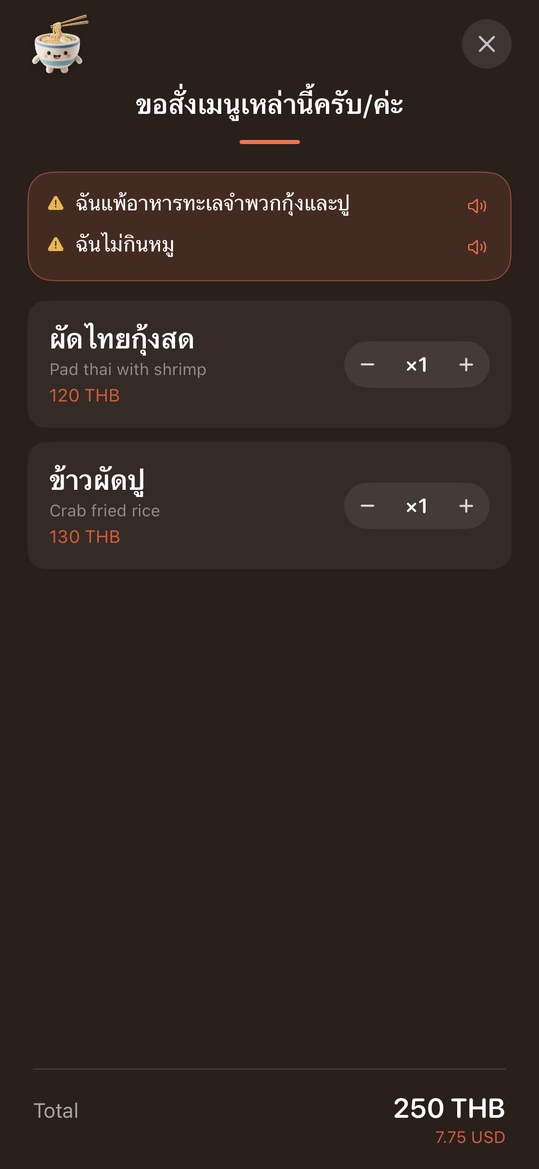
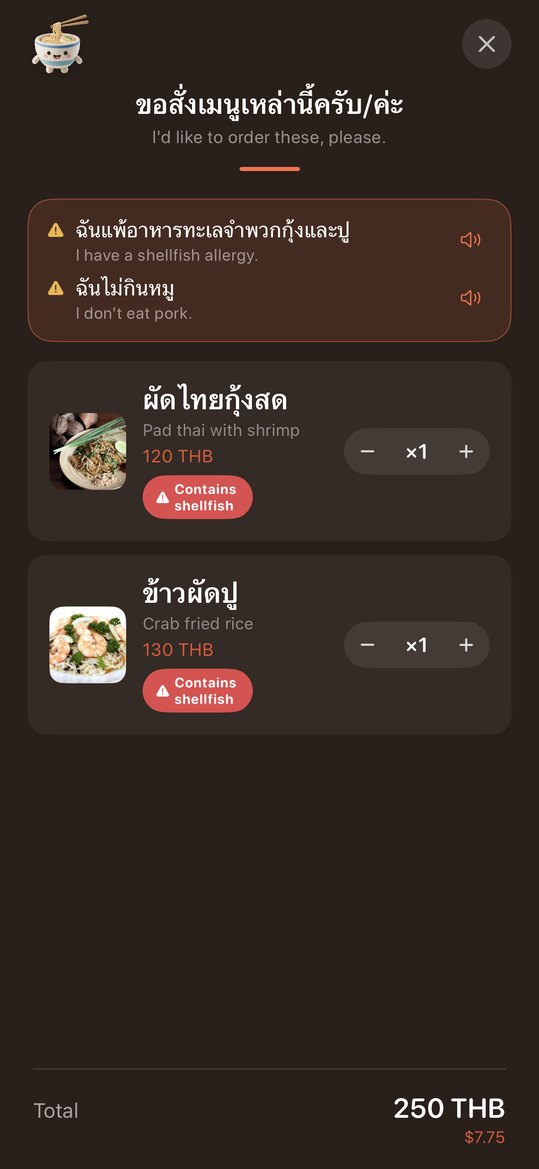
Menufy 2.5: dish photos section, refreshed app screens
Claude-Session: https://claude.ai/code/session_01V3SuSH6i4E2paDtxHYziYK

diff --git a/index.html b/index.html
@@ -181,6 +181,17 @@ body.mmenu-open{overflow:hidden}
 .why-d{font-size:14px;line-height:1.8;color:var(--muted);font-weight:700}
 .why-d strong{color:var(--ink);font-weight:900}
 
+/* DISH PHOTOS (2.5) */
+.ph-wrap{display:grid;grid-template-columns:minmax(0,1fr) minmax(0,1.05fr);gap:56px;align-items:center}
+.ph-pair{display:flex;align-items:center;justify-content:center;gap:18px}
+.ph-pair figure{margin:0;flex:0 1 230px;display:flex;flex-direction:column;gap:10px}
+.ph-pair figcaption{font-size:13px;line-height:1.5;color:var(--muted);font-weight:800;text-align:center}
+.ph-arrow{flex:none;width:40px;height:40px;border-radius:50%;background:var(--coral);color:#fff;display:flex;align-items:center;justify-content:center;box-shadow:var(--sh)}
+.ph-points{list-style:none;display:flex;flex-direction:column;gap:14px;margin:0;padding:0}
+.ph-points li{background:var(--card);border-radius:20px;padding:18px 20px;box-shadow:var(--sh);font-size:15px;line-height:1.7;color:var(--ink);font-weight:700}
+.ph-points li strong{display:block;font-weight:900;margin-bottom:2px}
+.ph-points li span{color:var(--muted)}
+@media(max-width:900px){.ph-wrap{grid-template-columns:1fr;gap:32px}.ph-pair{gap:10px}.ph-pair figure{flex-basis:44%}.ph-arrow{width:32px;height:32px}}
 /* NEW FEATURES (order) */
 .nf-grid{display:grid;grid-template-columns:repeat(2,1fr);gap:20px}
 .nf-card{background:var(--card);border-radius:26px;padding:28px;box-shadow:var(--sh);display:flex;flex-direction:column;gap:14px}
@@ -544,9 +555,9 @@ footer{padding:40px 80px 60px;display:flex;align-items:center;justify-content:sp
 <section class="hero">
   <div class="blob blob-1"></div><div class="blob blob-2"></div><div class="blob blob-3"></div>
   <div class="hleft">
-    <a href="#order" class="hannounce"><span style="display:inline-flex;width:14px;height:14px"><svg viewBox="0 0 24 24" fill="none" stroke="currentColor" stroke-width="2" stroke-linejoin="round"><path d="M12 3l2.2 5.8L20 11l-5.8 2.2L12 19l-2.2-5.8L4 11l5.8-2.2z"/></svg></span>会計チェックと、店員に見せる注文票が登場</a>
+    <a href="#photos" class="hannounce"><span style="display:inline-flex;width:14px;height:14px"><svg viewBox="0 0 24 24" fill="none" stroke="currentColor" stroke-width="2" stroke-linejoin="round"><path d="M12 3l2.2 5.8L20 11l-5.8 2.2L12 19l-2.2-5.8L4 11l5.8-2.2z"/></svg></span>メニューの料理写真が、訳した料理に付くように</a>
     <h1 class="htitle">読めないメニューも、<br>もう怖くない。</h1>
-    <p class="hdesc">撮るだけで、料理の名前・説明・値段があなたの言葉に。アレルギーの警告、店員に見せる注文票、会計のチェックまで。旅先の食事の不安を、ぜんぶ引き受けます。</p>
+    <p class="hdesc">撮るだけで、料理の名前・説明・値段があなたの言葉に。メニューに写真があれば、その料理の写真も一緒に。アレルギーの警告、店員に見せる注文票、会計のチェックまで。旅先の食事の不安を、ぜんぶ引き受けます。</p>
     <div class="hactions">
       <a href="#cta" class="btn-primary"><span style="display:inline-flex;width:20px;height:20px"><svg viewBox="0 0 24 24" fill="none" stroke="currentColor" stroke-width="2" stroke-linecap="round" stroke-linejoin="round"><path d="M4 8h3l2-3h6l2 3h3v11H4z"/><circle cx="12" cy="13" r="3.5"/></svg></span>無料でダウンロード</a>
       <a href="https://apps.apple.com/app/id6760161339" class="btn-store" target="_blank" onclick="fbq('track','InitiateCheckout',{content_name:'hero',content_category:'AppStore'})"><svg width="22" height="22" viewBox="0 0 24 24" fill="#3B2C26"><path d="M18.71 19.5c-.83 1.24-1.71 2.45-3.05 2.47-1.34.03-1.77-.79-3.29-.79-1.53 0-2 .77-3.27.82-1.31.05-2.3-1.32-3.14-2.53C4.25 17 2.94 12.45 4.7 9.39c.87-1.52 2.43-2.48 4.12-2.51 1.28-.02 2.5.87 3.29.87.78 0 2.26-1.07 3.8-.91.65.03 2.47.26 3.64 1.98-.09.06-2.17 1.28-2.15 3.81.03 3.02 2.65 4.03 2.68 4.04-.03.07-.42 1.44-1.38 2.83M13 3.5c.73-.83 1.94-1.46 2.94-1.5.13 1.17-.34 2.35-1.04 3.19-.69.85-1.83 1.51-2.95 1.42-.15-1.15.41-2.35 1.05-3.11z"/></svg><div><span class="sub">Download on the</span><span class="main">App Store</span></div></a>
@@ -555,8 +566,26 @@ footer{padding:40px 80px 60px;display:flex;align-items:center;justify-content:sp
     <div class="hmeta"><span>14言語</span><span>·</span><span>買い切り・サブスクなし</span><span>·</span><span>まず5回無料</span></div>
   </div>
   <div class="hright">
-    <div class="phone"><img src="screens-v2/03-result.jpg" alt="Menufyの翻訳結果画面" fetchpriority="high"></div>
+    <div class="phone"><img src="screens-v2/13-dishes.jpg" alt="写真つきで並ぶMenufyの翻訳結果" fetchpriority="high"></div>
     <img src="assets/mascot-sushi.png" alt="" class="mascot m1" loading="lazy"><img src="assets/mascot-ramen.png" alt="" class="mascot m2" loading="lazy"><img src="assets/mascot-gyoza.png" alt="" class="mascot m3" loading="lazy"><img src="assets/mascot-omurice.png" alt="" class="mascot m4" loading="lazy"><img src="assets/mascot-pudding.png" alt="" class="mascot m5" loading="lazy">
+  </div>
+</section>
+
+<section class="section" id="photos">
+  <div class="ph-wrap">
+    <div>
+      <div class="slbl">NEW 2.5 · 料理の写真</div>
+      <h2 class="stitle">メニューの写真が、<br><em>訳した料理に。</em></h2>
+      <p class="sdesc" style="margin-bottom:28px">写真つきのメニューなら、どの写真がどの料理かをAIが見分けて、訳した料理に添えます。名前を読んでもピンとこない料理も、ひと目でわかります。</p>
+      <ul class="ph-points">
+        <li><strong>写真を押すと大きく</strong><span>撮ったメニューから切り抜くので、細部までくっきり。</span></li><li><strong>迷ったら付けない</strong><span>どの料理の写真か確かでないときは付けません。写真のない料理は今までどおり。</span></li><li><strong>おすすめ・注文票・履歴にも</strong><span>店員に見せる注文票や、あとで見返す履歴にも写真が残ります。</span></li>
+      </ul>
+    </div>
+    <div class="ph-pair">
+      <figure><div class="screen-phone"><img src="screens-v2/02-camera.jpg" alt="写真つきのメニューを撮った画面" loading="lazy"></div><figcaption>写真つきのメニューを撮ると</figcaption></figure>
+      <div class="ph-arrow" aria-hidden="true"><svg viewBox="0 0 24 24" width="20" height="20" fill="none" stroke="currentColor" stroke-width="2.6" stroke-linecap="round" stroke-linejoin="round"><path d="M5 12h14M13 6l6 6-6 6"/></svg></div>
+      <figure><div class="screen-phone"><img src="screens-v2/13-dishes.jpg" alt="写真つきで並ぶMenufyの翻訳結果" loading="lazy"></div><figcaption>訳した料理に、その料理の写真</figcaption></figure>
+    </div>
   </div>
 </section>
 
@@ -601,20 +630,24 @@ footer{padding:40px 80px 60px;display:flex;align-items:center;justify-content:sp
         <div class="screen-cap"><strong>02. 翻訳結果が順に届く</strong>おすすめ・警告・食べ方つき</div>
       </div>
       <div class="screen-item">
+        <div class="screen-phone"><img src="screens-v2/12-viewer.jpg" alt="料理の写真を全画面で表示" loading="lazy"></div>
+        <div class="screen-cap"><strong>03. 料理の写真を大きく</strong>メニューの写真から切り抜き</div>
+      </div>
+      <div class="screen-item">
         <div class="screen-phone"><img src="screens-v2/04-order.jpg" alt="Menufyの注文票画面" loading="lazy"></div>
-        <div class="screen-cap"><strong>03. 注文票を店員に見せる</strong>アレルギーの申告文も現地語で</div>
+        <div class="screen-cap"><strong>04. 注文票を店員に見せる</strong>アレルギーの申告文も現地語で</div>
       </div>
       <div class="screen-item">
         <div class="screen-phone"><img src="screens-v2/05-ask.jpg" alt="店員に聞くカード" loading="lazy"></div>
-        <div class="screen-cap"><strong>04. 気になる料理は聞く</strong>「これは入っていますか？」を原語で</div>
+        <div class="screen-cap"><strong>05. 気になる料理は聞く</strong>「これは入っていますか？」を原語で</div>
       </div>
       <div class="screen-item">
         <div class="screen-phone"><img src="screens-v2/08-bill.jpg" alt="Menufyの会計チェック画面" loading="lazy"></div>
-        <div class="screen-cap"><strong>05. 会計をチェック</strong>過剰請求や未注文の品を指摘</div>
+        <div class="screen-cap"><strong>06. 会計をチェック</strong>過剰請求や未注文の品を指摘</div>
       </div>
       <div class="screen-item">
         <div class="screen-phone"><img src="screens-v2/06-paywall.jpg" alt="Menufyの回数券画面" loading="lazy"></div>
-        <div class="screen-cap"><strong>06. 買い切りの回数券</strong>サブスクなし。5回は無料</div>
+        <div class="screen-cap"><strong>07. 買い切りの回数券</strong>サブスクなし。5回は無料</div>
       </div>
     </div>
     <div class="screens-nav"><button class="snav" type="button" data-dir="-1" aria-label="prev">‹</button><span class="screens-hint" style="margin:0"><span>横にスクロール</span></span><button class="snav" type="button" data-dir="1" aria-label="next">›</button></div>
@@ -626,6 +659,11 @@ footer{padding:40px 80px 60px;display:flex;align-items:center;justify-content:sp
   <h2 class="stitle">読むだけで<em>終わらせない。</em></h2>
   <p class="sdesc">翻訳のあとに来る「選ぶ・頼む・払う・覚える」まで、ぜんぶ一つのアプリで。</p>
   <div class="fgrid">
+    <div class="feat">
+      <div class="icon"><svg viewBox="0 0 24 24" fill="none" stroke="currentColor" stroke-width="2" stroke-linecap="round" stroke-linejoin="round"><rect x="3" y="5" width="18" height="14" rx="3"/><circle cx="9" cy="10" r="1.8"/><path d="M21 16l-5-5-8 8"/></svg></div>
+      <h3 class="ft">料理の写真つき</h3>
+      <p class="fd">メニューの写真を、訳した料理に添えて表示。どんな一皿か、ひと目でわかります。</p>
+    </div>
     <div class="feat">
       <div class="icon "><svg viewBox="0 0 24 24" fill="none" stroke="currentColor" stroke-width="2" stroke-linecap="round"><circle cx="12" cy="12" r="9"/><path d="M3 12h18M12 3c3 3 3 15 0 18M12 3c-3 3-3 15 0 18"/></svg></div>
       <h3 class="ft">14言語・自動判定</h3>
@@ -660,11 +698,6 @@ footer{padding:40px 80px 60px;display:flex;align-items:center;justify-content:sp
       <div class="icon mint"><svg viewBox="0 0 24 24" fill="none" stroke="currentColor" stroke-width="2" stroke-linecap="round"><path d="M8 3v7a2 2 0 0 0 2 2v9M8 3v5M10 3v5"/><path d="M17 3c-2 1-3 4-3 7h3v11"/></svg></div>
       <h3 class="ft">食べた記録と旅カード</h3>
       <p class="fd">星と写真で記録。国ごとに1枚のカードにして共有できます。</p>
-    </div>
-    <div class="feat">
-      <div class="icon "><svg viewBox="0 0 24 24" fill="none" stroke="currentColor" stroke-width="2" stroke-linecap="round" stroke-linejoin="round"><path d="M12 3v12M7 8l5-5 5 5"/><path d="M5 14v6h14v-6"/></svg></div>
-      <h3 class="ft">保存・共有・履歴</h3>
-      <p class="fd">翻訳結果は画像で保存。履歴は店名や国で検索できます。</p>
     </div>
   </div>
 </section>
@@ -797,6 +830,10 @@ footer{padding:40px 80px 60px;display:flex;align-items:center;justify-content:sp
   <div class="slbl">よくある質問</div>
   <h2 class="stitle">気になること、<em>ここで解決。</em></h2>
   <div class="faq-wrap">
+    <details class="faq-item">
+      <summary class="faq-q">メニューの写真は、どんなときに付きますか？</summary>
+      <div class="faq-a">メニューに料理の写真があり、どの料理の写真かをAIが見分けられたときに、訳した料理に添えて表示します。写真に料理名が書かれていればそれを手がかりにします。どの料理の写真か確かでないときや、写真のない料理には付けません。写真は撮影したメニューから端末内で切り抜きます。</div>
+    </details>
     <details class="faq-item">
       <summary class="faq-q">翻訳の精度はどのくらいですか？</summary>
       <div class="faq-a">最新のAIを使用しており、印刷メニュー・手書きメニュー・黒板メニュー・タブレット画面など、様々な形式を高精度で翻訳します。料理名だけでなく、原材料や調理法の説明も日本語で表示するので、どんな料理か一目でわかります。</div>

diff --git a/en/index.html b/en/index.html
@@ -181,6 +181,17 @@ body.mmenu-open{overflow:hidden}
 .why-d{font-size:14px;line-height:1.8;color:var(--muted);font-weight:700}
 .why-d strong{color:var(--ink);font-weight:900}
 
+/* DISH PHOTOS (2.5) */
+.ph-wrap{display:grid;grid-template-columns:minmax(0,1fr) minmax(0,1.05fr);gap:56px;align-items:center}
+.ph-pair{display:flex;align-items:center;justify-content:center;gap:18px}
+.ph-pair figure{margin:0;flex:0 1 230px;display:flex;flex-direction:column;gap:10px}
+.ph-pair figcaption{font-size:13px;line-height:1.5;color:var(--muted);font-weight:800;text-align:center}
+.ph-arrow{flex:none;width:40px;height:40px;border-radius:50%;background:var(--coral);color:#fff;display:flex;align-items:center;justify-content:center;box-shadow:var(--sh)}
+.ph-points{list-style:none;display:flex;flex-direction:column;gap:14px;margin:0;padding:0}
+.ph-points li{background:var(--card);border-radius:20px;padding:18px 20px;box-shadow:var(--sh);font-size:15px;line-height:1.7;color:var(--ink);font-weight:700}
+.ph-points li strong{display:block;font-weight:900;margin-bottom:2px}
+.ph-points li span{color:var(--muted)}
+@media(max-width:900px){.ph-wrap{grid-template-columns:1fr;gap:32px}.ph-pair{gap:10px}.ph-pair figure{flex-basis:44%}.ph-arrow{width:32px;height:32px}}
 /* NEW FEATURES (order) */
 .nf-grid{display:grid;grid-template-columns:repeat(2,1fr);gap:20px}
 .nf-card{background:var(--card);border-radius:26px;padding:28px;box-shadow:var(--sh);display:flex;flex-direction:column;gap:14px}
@@ -540,9 +551,9 @@ footer{padding:40px 80px 60px;display:flex;align-items:center;justify-content:sp
 <section class="hero">
   <div class="blob blob-1"></div><div class="blob blob-2"></div><div class="blob blob-3"></div>
   <div class="hleft">
-    <a href="#order" class="hannounce"><span style="display:inline-flex;width:14px;height:14px"><svg viewBox="0 0 24 24" fill="none" stroke="currentColor" stroke-width="2" stroke-linejoin="round"><path d="M12 3l2.2 5.8L20 11l-5.8 2.2L12 19l-2.2-5.8L4 11l5.8-2.2z"/></svg></span>New: bill check and an order card to show staff</a>
+    <a href="#photos" class="hannounce"><span style="display:inline-flex;width:14px;height:14px"><svg viewBox="0 0 24 24" fill="none" stroke="currentColor" stroke-width="2" stroke-linejoin="round"><path d="M12 3l2.2 5.8L20 11l-5.8 2.2L12 19l-2.2-5.8L4 11l5.8-2.2z"/></svg></span>Dish photos from the menu, now next to each translation</a>
     <h1 class="htitle">No menu is scary<br>anymore.</h1>
-    <p class="hdesc">Snap a menu and every dish name, description and price appears in your language. Allergy alerts, an order card to show staff, and a check of the bill — everything that makes eating abroad stressful, handled.</p>
+    <p class="hdesc">Snap a menu and every dish name, description and price appears in your language — with the dish’s photo when the menu has one. Allergy alerts, an order card to show staff, and a check of the bill — everything that makes eating abroad stressful, handled.</p>
     <div class="hactions">
       <a href="#cta" class="btn-primary"><span style="display:inline-flex;width:20px;height:20px"><svg viewBox="0 0 24 24" fill="none" stroke="currentColor" stroke-width="2" stroke-linecap="round" stroke-linejoin="round"><path d="M4 8h3l2-3h6l2 3h3v11H4z"/><circle cx="12" cy="13" r="3.5"/></svg></span>Download free</a>
       <a href="https://apps.apple.com/app/id6760161339" class="btn-store" target="_blank" onclick="fbq('track','InitiateCheckout',{content_name:'hero',content_category:'AppStore'})"><svg width="22" height="22" viewBox="0 0 24 24" fill="#3B2C26"><path d="M18.71 19.5c-.83 1.24-1.71 2.45-3.05 2.47-1.34.03-1.77-.79-3.29-.79-1.53 0-2 .77-3.27.82-1.31.05-2.3-1.32-3.14-2.53C4.25 17 2.94 12.45 4.7 9.39c.87-1.52 2.43-2.48 4.12-2.51 1.28-.02 2.5.87 3.29.87.78 0 2.26-1.07 3.8-.91.65.03 2.47.26 3.64 1.98-.09.06-2.17 1.28-2.15 3.81.03 3.02 2.65 4.03 2.68 4.04-.03.07-.42 1.44-1.38 2.83M13 3.5c.73-.83 1.94-1.46 2.94-1.5.13 1.17-.34 2.35-1.04 3.19-.69.85-1.83 1.51-2.95 1.42-.15-1.15.41-2.35 1.05-3.11z"/></svg><div><span class="sub">Download on the</span><span class="main">App Store</span></div></a>
@@ -551,8 +562,26 @@ footer{padding:40px 80px 60px;display:flex;align-items:center;justify-content:sp
     <div class="hmeta"><span>14 languages</span><span>·</span><span>One-time purchase, no subscription</span><span>·</span><span>First 5 scans free</span></div>
   </div>
   <div class="hright">
-    <div class="phone"><img src="../screens-v2/en/03-result.jpg" alt="Menufy translation result screen" fetchpriority="high"></div>
+    <div class="phone"><img src="../screens-v2/en/13-dishes.jpg" alt="Menufy results with dish photos" fetchpriority="high"></div>
     <img src="../assets/mascot-sushi.png" alt="" class="mascot m1" loading="lazy"><img src="../assets/mascot-ramen.png" alt="" class="mascot m2" loading="lazy"><img src="../assets/mascot-gyoza.png" alt="" class="mascot m3" loading="lazy"><img src="../assets/mascot-omurice.png" alt="" class="mascot m4" loading="lazy"><img src="../assets/mascot-pudding.png" alt="" class="mascot m5" loading="lazy">
+  </div>
+</section>
+
+<section class="section" id="photos">
+  <div class="ph-wrap">
+    <div>
+      <div class="slbl">NEW 2.5 · Dish photos</div>
+      <h2 class="stitle">Menu photos,<br><em>matched to each dish.</em></h2>
+      <p class="sdesc" style="margin-bottom:28px">When the menu has pictures, the AI works out which photo shows which dish and puts it next to the translation. Even a name that means nothing to you becomes clear at a glance.</p>
+      <ul class="ph-points">
+        <li><strong>Tap to see it big</strong><span>Cut from the menu you photographed, so it stays sharp.</span></li><li><strong>No guessing</strong><span>If it isn’t sure which dish a photo shows, it leaves it out. Dishes without a photo look as before.</span></li><li><strong>In picks, the order card and history</strong><span>Photos stay with the dish on the order card you show staff and in your history.</span></li>
+      </ul>
+    </div>
+    <div class="ph-pair">
+      <figure><div class="screen-phone"><img src="../screens-v2/en/02-camera.jpg" alt="A photographed menu with dish photos" loading="lazy"></div><figcaption>Snap a menu with photos</figcaption></figure>
+      <div class="ph-arrow" aria-hidden="true"><svg viewBox="0 0 24 24" width="20" height="20" fill="none" stroke="currentColor" stroke-width="2.6" stroke-linecap="round" stroke-linejoin="round"><path d="M5 12h14M13 6l6 6-6 6"/></svg></div>
+      <figure><div class="screen-phone"><img src="../screens-v2/en/13-dishes.jpg" alt="Menufy results with dish photos" loading="lazy"></div><figcaption>Each translated dish gets its photo</figcaption></figure>
+    </div>
   </div>
 </section>
 
@@ -597,20 +626,24 @@ footer{padding:40px 80px 60px;display:flex;align-items:center;justify-content:sp
         <div class="screen-cap"><strong>02. Dishes arrive one by one</strong>With picks, warnings and how to eat</div>
       </div>
       <div class="screen-item">
+        <div class="screen-phone"><img src="../screens-v2/en/12-viewer.jpg" alt="A dish photo shown full screen" loading="lazy"></div>
+        <div class="screen-cap"><strong>03. See the dish photo big</strong>Cut from the menu’s own photo</div>
+      </div>
+      <div class="screen-item">
         <div class="screen-phone"><img src="../screens-v2/en/04-order.jpg" alt="Menufy order card" loading="lazy"></div>
-        <div class="screen-cap"><strong>03. Show the order card</strong>Allergy statements in the local language</div>
+        <div class="screen-cap"><strong>04. Show the order card</strong>Allergy statements in the local language</div>
       </div>
       <div class="screen-item">
         <div class="screen-phone"><img src="../screens-v2/en/05-ask.jpg" alt="Ask-staff card" loading="lazy"></div>
-        <div class="screen-cap"><strong>04. Ask about a dish</strong>"Does this contain…?" in the menu's language</div>
+        <div class="screen-cap"><strong>05. Ask about a dish</strong>"Does this contain…?" in the menu's language</div>
       </div>
       <div class="screen-item">
         <div class="screen-phone"><img src="../screens-v2/en/08-bill.jpg" alt="Menufy bill check" loading="lazy"></div>
-        <div class="screen-cap"><strong>05. Check the bill</strong>Overcharges and unordered items flagged</div>
+        <div class="screen-cap"><strong>06. Check the bill</strong>Overcharges and unordered items flagged</div>
       </div>
       <div class="screen-item">
         <div class="screen-phone"><img src="../screens-v2/en/06-paywall.jpg" alt="Menufy credit packs" loading="lazy"></div>
-        <div class="screen-cap"><strong>06. One-time credit packs</strong>No subscription. First 5 are free</div>
+        <div class="screen-cap"><strong>07. One-time credit packs</strong>No subscription. First 5 are free</div>
       </div>
     </div>
     <div class="screens-nav"><button class="snav" type="button" data-dir="-1" aria-label="prev">‹</button><span class="screens-hint" style="margin:0"><span>Scroll sideways</span></span><button class="snav" type="button" data-dir="1" aria-label="next">›</button></div>
@@ -622,6 +655,11 @@ footer{padding:40px 80px 60px;display:flex;align-items:center;justify-content:sp
   <h2 class="stitle">Reading is <em>only the start.</em></h2>
   <p class="sdesc">Choosing, ordering, paying and remembering — all in one app.</p>
   <div class="fgrid">
+    <div class="feat">
+      <div class="icon"><svg viewBox="0 0 24 24" fill="none" stroke="currentColor" stroke-width="2" stroke-linecap="round" stroke-linejoin="round"><rect x="3" y="5" width="18" height="14" rx="3"/><circle cx="9" cy="10" r="1.8"/><path d="M21 16l-5-5-8 8"/></svg></div>
+      <h3 class="ft">Dish photos</h3>
+      <p class="fd">The menu’s own photos, shown next to each translated dish. See what you’re ordering at a glance.</p>
+    </div>
     <div class="feat">
       <div class="icon "><svg viewBox="0 0 24 24" fill="none" stroke="currentColor" stroke-width="2" stroke-linecap="round"><circle cx="12" cy="12" r="9"/><path d="M3 12h18M12 3c3 3 3 15 0 18M12 3c-3 3-3 15 0 18"/></svg></div>
       <h3 class="ft">14 languages, auto-detected</h3>
@@ -656,11 +694,6 @@ footer{padding:40px 80px 60px;display:flex;align-items:center;justify-content:sp
       <div class="icon mint"><svg viewBox="0 0 24 24" fill="none" stroke="currentColor" stroke-width="2" stroke-linecap="round"><path d="M8 3v7a2 2 0 0 0 2 2v9M8 3v5M10 3v5"/><path d="M17 3c-2 1-3 4-3 7h3v11"/></svg></div>
       <h3 class="ft">Food log and trip card</h3>
       <p class="fd">Rate dishes with a photo, then share one card per trip.</p>
-    </div>
-    <div class="feat">
-      <div class="icon "><svg viewBox="0 0 24 24" fill="none" stroke="currentColor" stroke-width="2" stroke-linecap="round" stroke-linejoin="round"><path d="M12 3v12M7 8l5-5 5 5"/><path d="M5 14v6h14v-6"/></svg></div>
-      <h3 class="ft">Save, share, history</h3>
-      <p class="fd">Save results as an image. Search history by restaurant or country.</p>
     </div>
   </div>
 </section>
@@ -793,6 +826,10 @@ footer{padding:40px 80px 60px;display:flex;align-items:center;justify-content:sp
   <div class="slbl">FAQ</div>
   <h2 class="stitle">Your questions, <em>answered.</em></h2>
   <div class="faq-wrap">
+    <details class="faq-item">
+      <summary class="faq-q">When does a dish get a photo?</summary>
+      <div class="faq-a">When the menu has food photos and the AI can tell which dish each one shows, the photo appears next to that dish. A name printed on the photo helps it decide. If it isn’t sure, or a dish has no photo, none is added. Photos are cut from your menu shot on the device itself.</div>
+    </details>
     <details class="faq-item">
       <summary class="faq-q">How accurate is the translation?</summary>
       <div class="faq-a">Menufy uses the latest AI to deliver high-accuracy translations across printed menus, handwritten menus, chalkboards, and digital tablets. Beyond just dish names, it also explains ingredients and cooking methods so you know exactly what you're ordering.</div>
